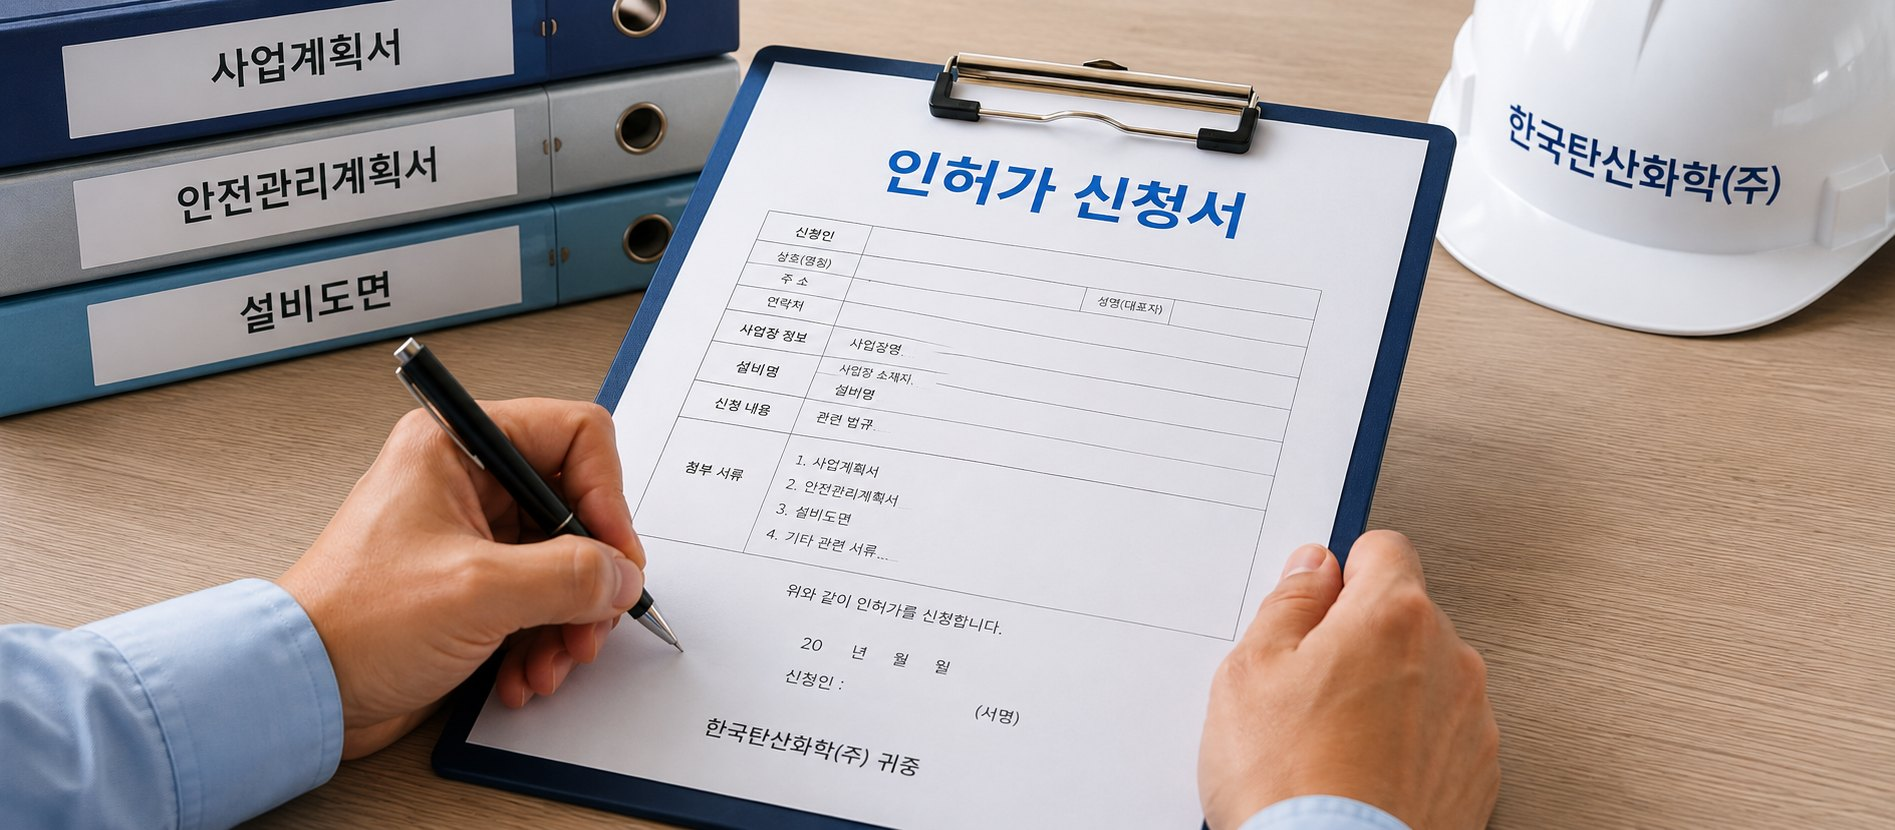
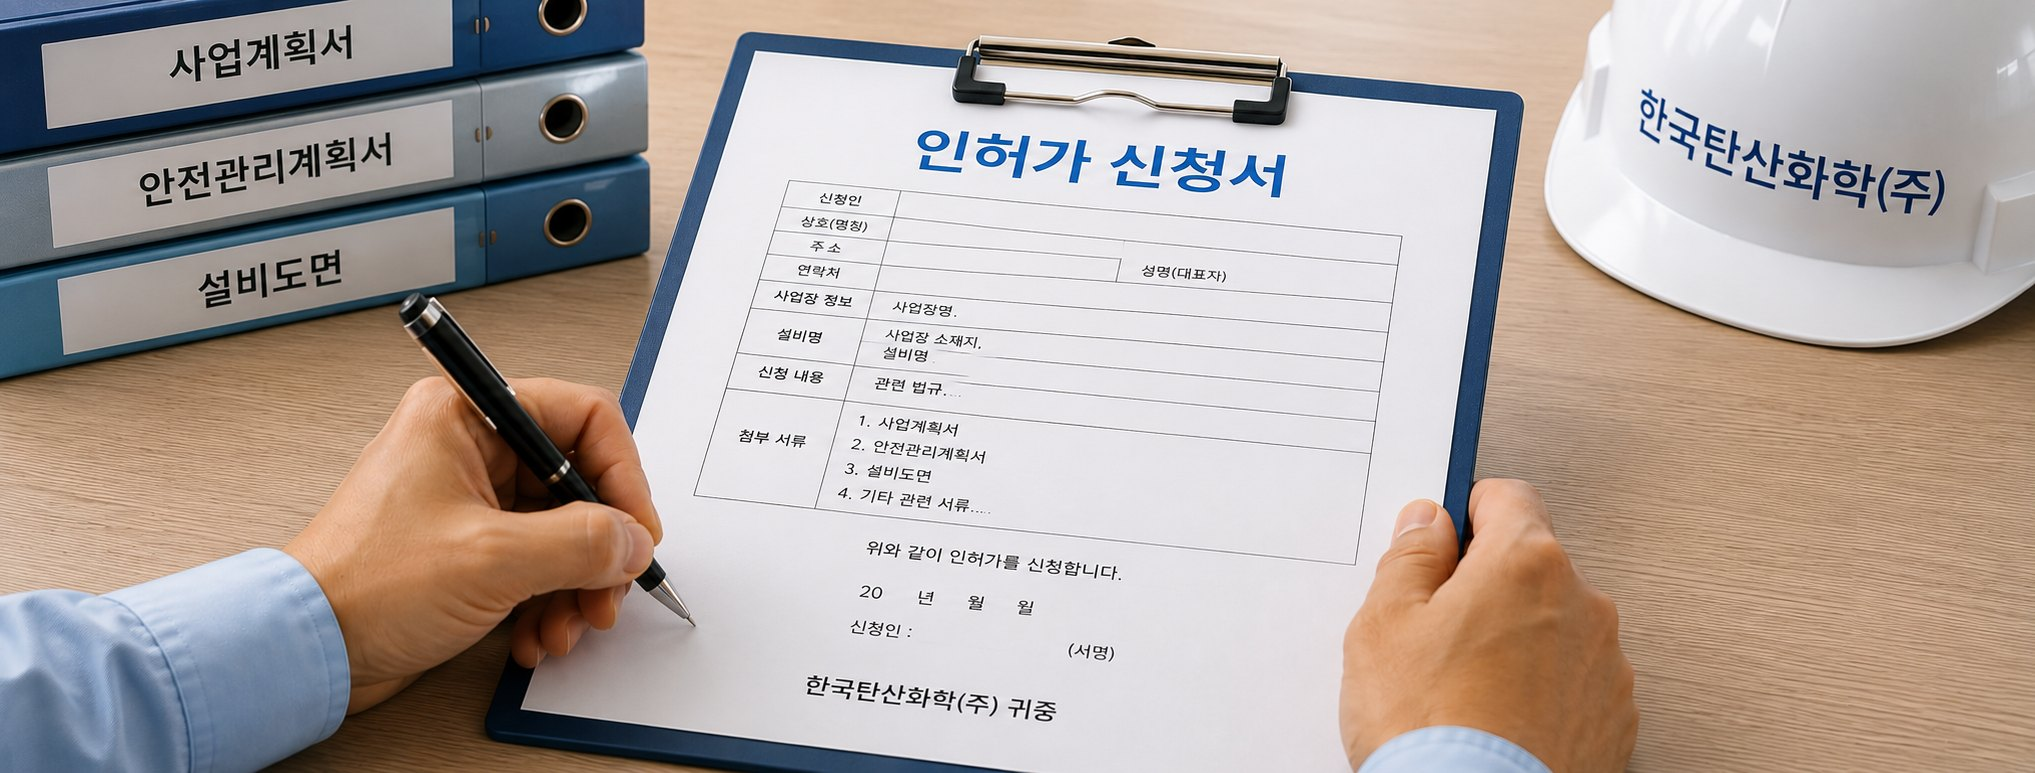
안전·품질·인허가 배경 사진을 전체가 더 보이는 버전으로 교체. 이미지 캐시버스트 bump(b)

diff --git a/products-construction.html b/products-construction.html
@@ -253,7 +253,7 @@
           <h2 class="section__title">안전 · 품질 · 인허가</h2>
         </div>
         <div class="safetyband">
-          <img class="safetyband__bg" src="assets/images/site/construction/safety-band.jpg?v=20260829" alt="한국탄산화학 인허가 신청서·안전관리계획서·설비도면" loading="lazy">
+          <img class="safetyband__bg" src="assets/images/site/construction/safety-band.jpg?v=20260829b" alt="한국탄산화학 인허가 신청서·안전관리계획서·설비도면" loading="lazy">
           <div class="safetyband__scrim" aria-hidden="true"></div>
           <div class="safetyband__inner">
             <div class="safetyband__panel">
